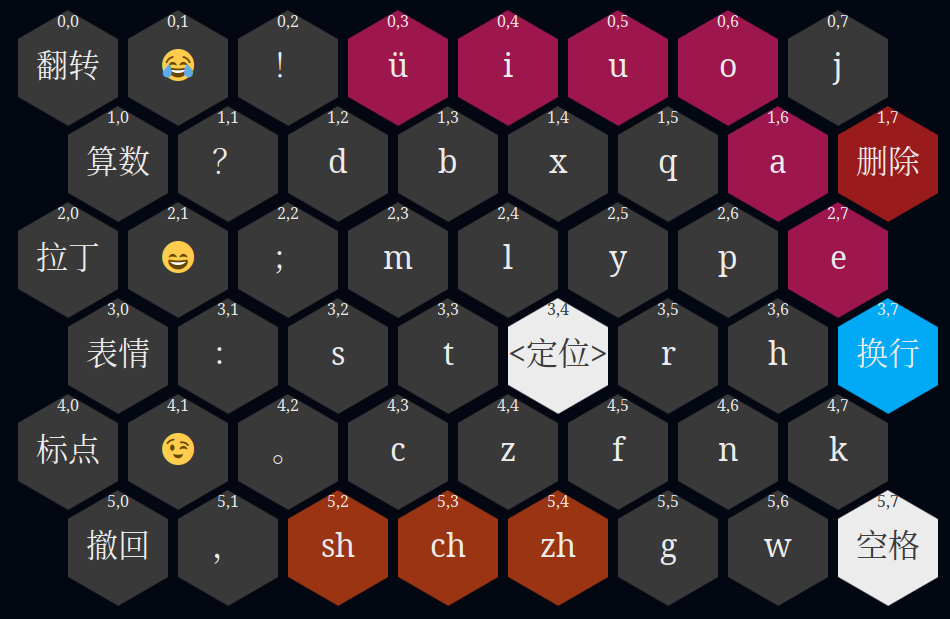
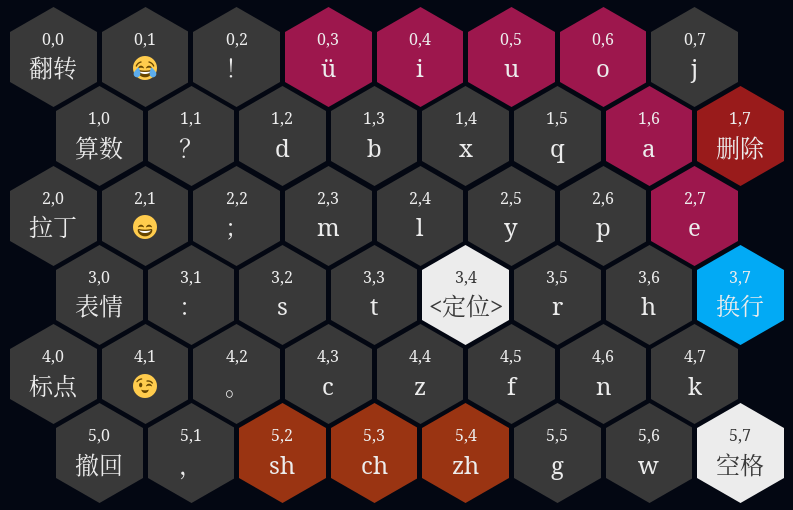
Analyze: 改进划词模拟中的按键生成和布局算法，确保其为真正的正六边形且按键间隔完全一致

diff --git a/analyze/simulate.js b/analyze/simulate.js
@@ -8,22 +8,31 @@ const timer = {
   id: 0,
   duration: 500
 };
-const line = 8;
-const lineCount = 9;
-const hexWidth = 100;
+const cos_30 = Math.cos(Math.PI / 6);
+const sin_30 = Math.sin(Math.PI / 6);
+const hexRows = 6;
+const hexColumns = 8;
+const hexRadius = 50;
+const hexWidth = 2 * (hexRadius * cos_30);
+const hexHeight = 2 * hexRadius;
+// 正六边形间距通过嵌套外六边形实现
 const hexSpacing = 5;
-const hexOuterWidth = hexWidth + 2 * hexSpacing;
+const hexOuterRadius = hexRadius + hexSpacing / (2 * cos_30);
+const hexOuterWidth = 2 * (hexOuterRadius * cos_30);
+const hexOuterHeight = 2 * hexOuterRadius;
+const hexOuterMarginTop = -hexOuterRadius * sin_30;
+const hexRowsWidth = (hexColumns + 0.5) * hexOuterWidth;
 const keys = [
   // row 0
-  ['翻转', '😂', '！', 'ü', 'i', 'u', 'o', 'j', null],
+  ['翻转', '😂', '！', 'ü', 'i', 'u', 'o', 'j'],
   // row 1
   ['算数', '？', 'd', 'b', 'x', 'q', 'a', '删除'],
   // row 2
-  ['拉丁', '😄', '；', 'm', 'l', 'y', 'p', 'e', null],
+  ['拉丁', '😄', '；', 'm', 'l', 'y', 'p', 'e'],
   // row 3
   ['表情', '：', 's', 't', '&lt;定位>', 'r', 'h', '换行'],
   // row 4
-  ['标点', '😉', '。', 'c', 'z', 'f', 'n', 'k', null],
+  ['标点', '😉', '。', 'c', 'z', 'f', 'n', 'k'],
   // row 5
   ['撤回', '，', 'sh', 'ch', 'zh', 'g', 'w', '空格']
 ];
@@ -31,7 +40,7 @@ const keys = [
 initKeyboard();
 
 function initKeyboard() {
-  for (let i = 0, row = 0, column = 0; i < line * lineCount - 4; i++) {
+  for (let i = 0, row = 0, column = 0; i < hexColumns * hexRows; i++) {
     const keyRow = keys[row] || [];
     const keyChar = keyRow[column] || '';
 
@@ -56,19 +65,22 @@ function initKeyboard() {
     }
   }
 
-  $keyboard.style.width = `${lineCount * hexOuterWidth}px`;
+  $keyboard.style.width = `${hexRowsWidth}px`;
 
-  // 假设需要平行边距离为w的六边形，每个六边形之间的间隔为m。
-  // 如果第一排有x个六边形，那么为实现相邻两排交错排列的效果，
-  // 需要设置: .key:nth(`2x - 1`n + `x + 1`) { margin-left: 0.5(w+2m) }。
-  // 比如第一排有6个，那么li:nth(11n+7) { ... }
-  const $lineCount = document.createElement('style');
-  $lineCount.textContent = `
-      .key:nth-child(${2 * lineCount - 1}n+${lineCount + 1}) { margin-left: ${
-    0.5 * hexOuterWidth
-  }px; }
+  const $hexComputedStyle = document.createElement('style');
+  $hexComputedStyle.textContent = `
+      .demo { padding-top: ${-hexOuterMarginTop}px; }
+      .hex {
+        width: ${hexOuterWidth}px;
+        height: ${hexOuterHeight}px;
+        margin-top: ${hexOuterMarginTop}px;
+      }
+      .hex-inner { width: ${hexWidth}px; height: ${hexHeight}px; }
+      .key:nth-child(${hexColumns * 2}n+${hexColumns + 1}) {
+        margin-left: ${0.5 * hexOuterWidth}px;
+      }
       `;
-  document.head.appendChild($lineCount);
+  document.head.appendChild($hexComputedStyle);
 
   const $btnClear = document.body.querySelector('.data .btn [name="clear"]');
   const $btnStop = document.body.querySelector('.data .btn [name="stop"]');

diff --git a/analyze/simulate.css b/analyze/simulate.css
@@ -28,6 +28,7 @@ body {
 
 .data {
   padding: 2em;
+  margin-top: 5em;
   display: flex;
   flex-direction: column;
   justify-content: flex-start;
@@ -77,32 +78,29 @@ body {
   padding-bottom: 20px;
 }
 
-.key {
-  margin: 0 5px;
-  height: 96px;
-}
+.key {}
 
 .hex {
   overflow: hidden;
-  display: block;
-  width: 100px;
-  height: 116px;
-  transform: rotate(-60deg) skewY(30deg);
+  display: flex;
+  justify-content: center;
+  align-items: center;
 }
 
 .hex-inner {
-  display: block;
-  width: 100px;
-  height: 116px;
   text-align: center;
-  transform: skewY(-30deg) rotate(60deg);
+  clip-path: polygon(0% 25%, 0% 75%, 50% 100%, 100% 75%, 100% 25%, 50% 0%);
+  display: flex;
+  justify-content: center;
+  align-items: center;
+  flex-direction: column;
 }
 
 .hex-inner .index {}
 
 .hex-inner .char {
-  font-size: 2em;
-  line-height: 2em;
+  font-size: 1.5em;
+  line-height: 1.5em;
 }
 
 .key .hex-inner {
